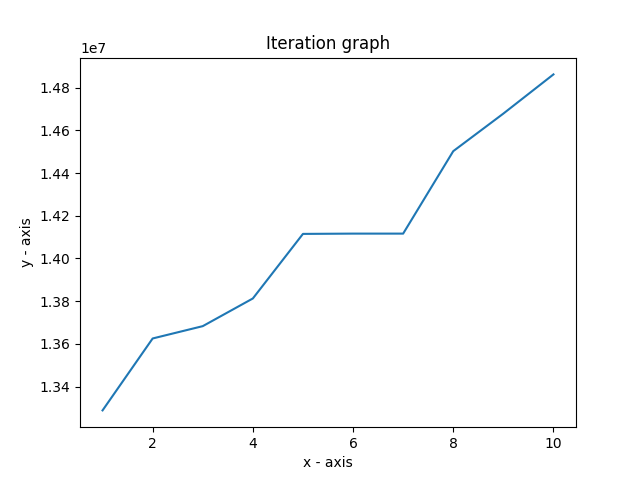
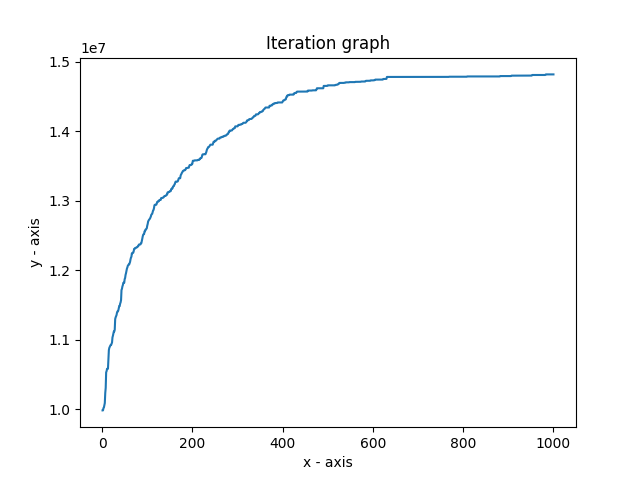
hillclimber now moves a random house one or multiple steps

diff --git a/project_code/algorithms/hillclimber.py b/project_code/algorithms/hillclimber.py
@@ -4,6 +4,7 @@ from copy import deepcopy
 from shapely.geometry import Polygon
 from project_code.visualisations.visualise import visualise
 import matplotlib.pyplot as plt
+import random
 
 class HillClimber():
 
@@ -30,30 +31,77 @@ class HillClimber():
         generations = []
         generations.append("copy_map")
         current_best_value = copy_map.total
-        counter = 0
-        iterations = 5
-        # steps = 2
+        # counter = 0
+        # iterations = 1
+        # steps = 1
 
         # data for iteration graph
         iteration_counter = 0
         results = []
         total_iterations = []
 
-        for i in range(iterations):
+        # for i in range(iterations):
 
-            if i < 7:
-                steps = 8
-            if i >= 7 and i < 13:
-                steps = 4
-            if i >= 13 and i < 20:
-                steps = 2
-            if i >= 20:
-                steps = 1
+            # if i < 7:
+            #     steps = 8
+            # if i >= 7 and i < 14:
+            #     steps = 7
+            # if i >= 14 and i < 21:
+            #     steps = 6
+            # if i >= 21 and i < 24:
+            #     steps = 5
+            # if i >= 24 and i < 28:
+            #     steps = 4
+            # if i >= 32 and i < 36:
+            #     steps = 3
+            # if i >= 40 and i < 44:
+            #     steps = 2
+            # if i >= 44:
+            #     steps = 1
 
-            for house in copy_map.all_land_objects:
+            # for house in copy_map.all_land_objects:
+        houses = []
+        for house in copy_map.all_land_objects:
+            if house.name != "water":
+                houses.append(house)
+
+        for j in range(5000):
+            house = random.choice(houses)
+            for i in range(1):
                 copy_map.total = 0
                 if house.name != "water":
-
+                    if i == 0:
+                        steps = 1
+                    if i == 1:
+                        steps = 7
+                    if i == 2:
+                        steps = 6
+                    if i == 3:
+                        steps = 5
+                    if i == 4:
+                        steps = 4
+                    if i == 5:
+                        steps = 3
+                    if i == 6:
+                        steps = 2
+                    if i == 7:
+                        steps = 1
+                    # if i < 2:
+                    #     steps = 8
+                    # if i >= 2 and i < 4:
+                    #     steps = 7
+                    # if i >= 4 and i < 6:
+                    #     steps = 6
+                    # if i >= 6 and i < 8:
+                    #     steps = 5
+                    # if i >= 8 and i < 10:
+                    #     steps = 4
+                    # if i >= 10 and i < 12:
+                    #     steps = 3
+                    # if i >= 12 and i < 14:
+                    #     steps = 2
+                    # if i >= 14:
+                    #     steps = 1
                     # moves house to the right
                     total_value_right = 0
                     house.move(steps, 0)
@@ -181,7 +229,7 @@ class HillClimber():
                         generations.pop(0)          
                         generations.append("bottom_left_corner")
                         current_best_value = total_value_bottom_left_corner 
-                                               
+                                                
                     # makes the decisive move based upon the best value
                     if generations[0] == "right":
                         house.move(steps, 0)
@@ -203,12 +251,14 @@ class HillClimber():
 
                     generations = ["copy_map"]
 
-            counter += 1
-            print(f"counter: {counter}")
-            # data for iteration graph
-            iteration_counter += 1
-            total_iterations.append(iteration_counter)
-            results.append(current_best_value)
+                    # counter += 1
+                    # print(f"counter: {counter}")
+
+                    # data for iteration graph
+                    iteration_counter += 1
+                    print(iteration_counter)
+                    total_iterations.append(iteration_counter)
+                    results.append(current_best_value)
 
         # calculates value for return object
         copy_map.calculate_distance(copy_map.all_land_objects)

diff --git a/main.py b/main.py
@@ -61,7 +61,7 @@ if __name__ == "__main__":
     winner = None
     counter = 0
     for i in range(1):
-        starting_graph = Randomise(empty_graph, number_of_houses, 100)
+        starting_graph = Randomise(empty_graph, number_of_houses, 1)
         winner_graph = HillClimber(starting_graph.winner)
         results.append(winner_graph.winner.total_real)
 
@@ -70,12 +70,12 @@ if __name__ == "__main__":
         if winner_graph.winner.total_real > winner.winner.total_real:
             winner = winner_graph
 
-        print(f"before hillclimber swap: {winner.winner.total_real}")
-        winner = Hillclimber(winner.winner, 100)
-        print(f"after hillclimber swap: {winner.winner.total_real}")
+        # print(f"before hillclimber swap: {winner.winner.total_real}")
+        # winner = Hillclimber(winner.winner, 100)
+        # print(f"after hillclimber swap: {winner.winner.total_real}")
 
         counter += 1
-        print(counter) 
+        # print(counter) 
 
     visualise(winner.winner.all_land_objects, winner.winner.total_real, len(winner.winner.all_land_objects))
 

diff --git a/project_code/classes/land.py b/project_code/classes/land.py
@@ -145,11 +145,3 @@ class Land():
                 self.total_real += house.price
         
         return self.total_real
-
-
-
- 
-
-            
-
-           
